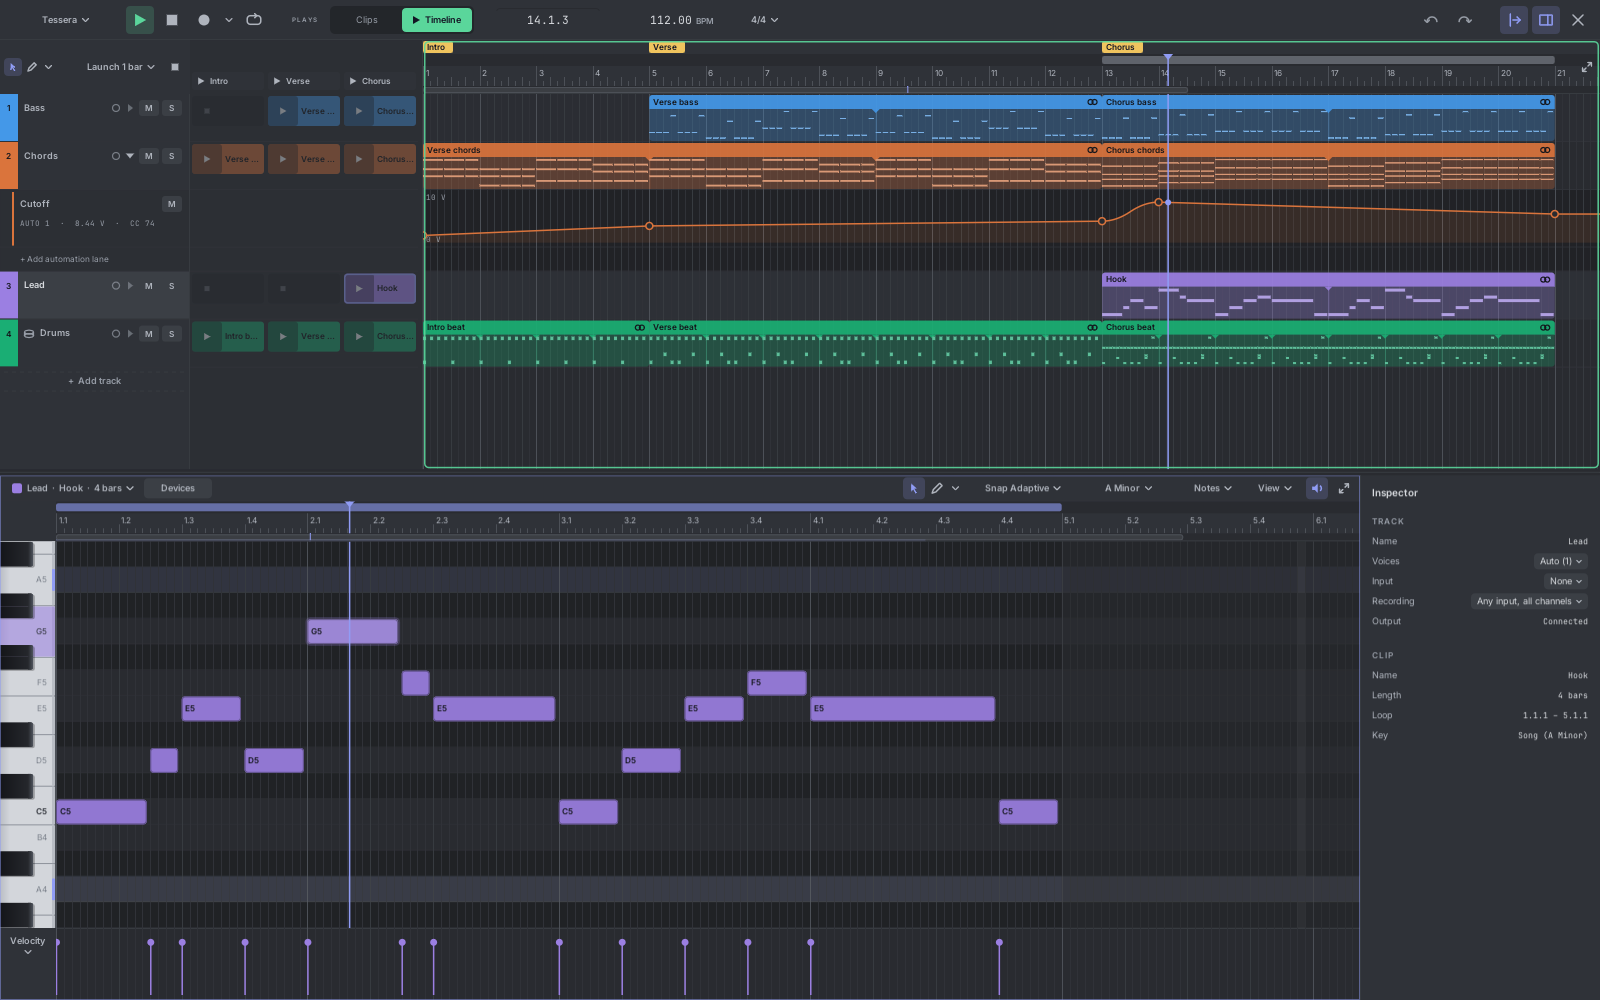
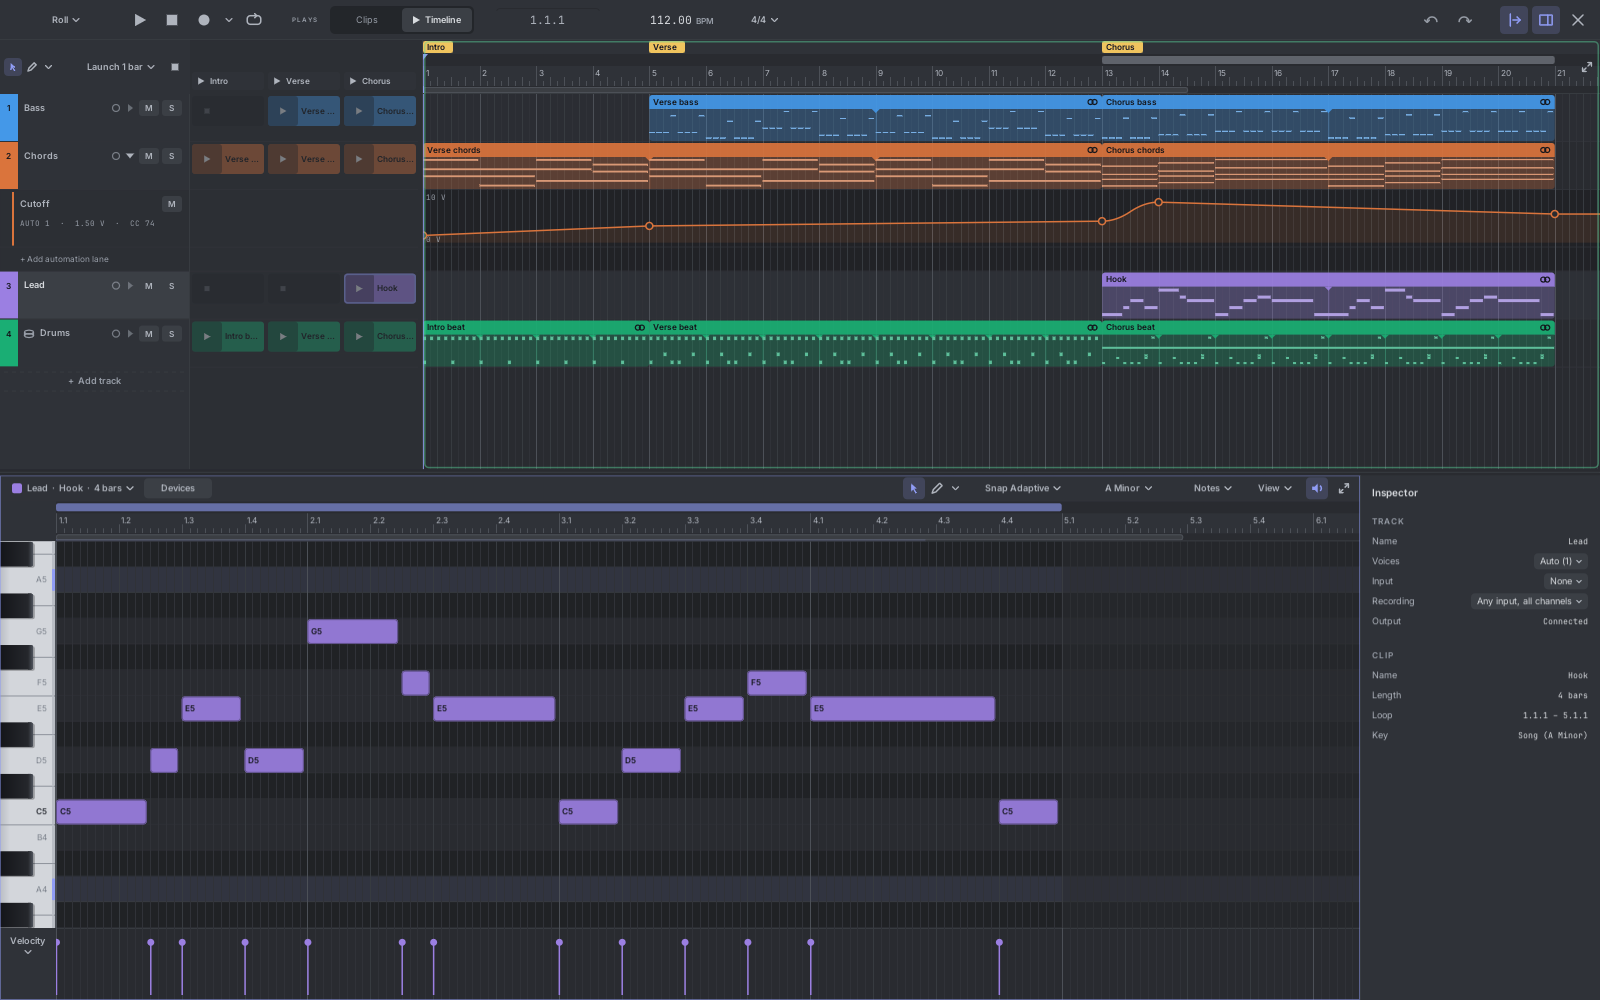
Rename the main module to Roll

Changed region(s): [[0.25, 0.0, 0.3125, 0.031], [0.0, 0.589, 0.0312, 0.651], [0.0625, 0.0, 0.0938, 0.031]]

diff --git a/docs/manual/tools/demo_patch.py b/docs/manual/tools/demo_patch.py
@@ -3,7 +3,7 @@
 
 Run it with an output folder: `demo_patch.py build/manual-rack`. It writes demo.vcv (a small song with its output
 modules), panel.vcv (the same song in an 80 HP panel editor), modules.vcv (the modules zoomed in), first.vcv
-(Tessera, a Track Out and a simple voice from Fundamental, to patch by hand), fresh.vcv (a new Tessera alone) and
+(Roll, a Track Out and a simple voice from Fundamental, to patch by hand), fresh.vcv (a new Roll alone) and
 polymeter.vcv (the demo with the Drums track open and its closed hat on a 3-step loop of its own) and hitvalues.vcv
 (the Drums track open on its Pitch lane: the snares tuned up step by step, the second a shaped curve, the hats with
 timbre).
@@ -142,7 +142,7 @@ def make_song():
 
 
 def tessera_module(song, selected_clip, panel_hp, plays_timeline, selected_track="Lead", note_lane=None):
-    """The Tessera module with the song; params are play, reset, loop, tap, BPM, scene buttons, Plays, rec, fill."""
+    """The Roll module with the song; params are play, reset, loop, tap, BPM, scene buttons, Plays, rec, fill."""
     params = [0.0] * 12
     params[4] = 112.0
     params[9] = 1.0 if plays_timeline else 0.0
@@ -150,14 +150,14 @@ def tessera_module(song, selected_clip, panel_hp, plays_timeline, selected_track
           "overlay": {"openAutomation": [TRACK_IDS["Chords"]]}}
     if note_lane:
         ui["overlay"]["noteLane"] = note_lane
-    return {"id": TESSERA_ID, "plugin": "Tessera", "model": "Tessera", "version": "2.0.0",
+    return {"id": TESSERA_ID, "plugin": "Tessera", "model": "Roll", "version": "2.0.0",
             "params": [{"value": v, "id": i} for i, v in enumerate(params)], "pos": [0, 0],
-            "data": {"schema": 6, "name": "Tessera", "savedId": TESSERA_ID, "launcher": [], "song": song, "ui": ui}}
+            "data": {"schema": 6, "name": "Roll", "savedId": TESSERA_ID, "launcher": [], "song": song, "ui": ui}}
 
 
 def output_module(mid, model, track, x):
     """A Track Out, Drum Out or Auto Out bound to `track` of the demo Tessera."""
-    data = {"source": TESSERA_ID, "sourceName": "Tessera", "track": TRACK_IDS[track],
+    data = {"source": TESSERA_ID, "sourceName": "Roll", "track": TRACK_IDS[track],
             "followSelected": False}
     return {"id": mid, "plugin": "Tessera", "model": model, "version": "2.0.0", "params": [], "pos": [x, 0],
             "data": data}
@@ -229,7 +229,7 @@ def main():
     values, beat = hit_values_song()
     (out / "hitvalues.vcv").write_text(json.dumps(patch([tessera_module(values, beat, 24, False, "Drums", "pitch")] +
                                                          outputs(24))))
-    (out / "fresh.vcv").write_text(json.dumps(patch([{"id": TESSERA_ID, "plugin": "Tessera", "model": "Tessera",
+    (out / "fresh.vcv").write_text(json.dumps(patch([{"id": TESSERA_ID, "plugin": "Tessera", "model": "Roll",
                                                       "version": "2.0.0", "params": [], "pos": [0, 0]}])))
 
 

diff --git a/src/ui/TesseraWidget.cpp b/src/ui/TesseraWidget.cpp
@@ -143,7 +143,7 @@ struct TesseraWidget : rack::app::ModuleWidget {
     explicit TesseraWidget(TesseraModule* module) {
         using M = TesseraModule;
         setModule(module);
-        PanelBuilder panel(this, kHp, "TESSERA");
+        PanelBuilder panel(this, kHp, "ROLL");
 
         auto* display = new TesseraDisplay(module);
         display->box = Rect(rack::mm2px(kDisplay.pos), rack::mm2px(kDisplay.size));
@@ -299,8 +299,8 @@ struct TesseraWidget : rack::app::ModuleWidget {
         menu->addChild(new rack::ui::MenuSeparator);
         menu->addChild(rack::createMenuLabel("Instance name"));
         menu->addChild(new MenuTextField(m->instanceName(), [m](const std::string& text) {
-            std::string name = text.empty() ? "Tessera" : text;
-            withModuleUndo(m, "rename Tessera", [&] { m->setInstanceName(Registry::get().uniqueSourceName(name)); });
+            std::string name = text.empty() ? "Roll" : text;
+            withModuleUndo(m, "rename Roll", [&] { m->setInstanceName(Registry::get().uniqueSourceName(name)); });
         }));
 
         std::vector<std::string> divisions;
@@ -409,4 +409,4 @@ struct TesseraWidget : rack::app::ModuleWidget {
 
 } // namespace tessera
 
-rack::plugin::Model* modelTessera = rack::createModel<tessera::TesseraModule, tessera::TesseraWidget>("Tessera");
+rack::plugin::Model* modelTessera = rack::createModel<tessera::TesseraModule, tessera::TesseraWidget>("Roll");

diff --git a/src/ui/editing/ExportMidi.cpp b/src/ui/editing/ExportMidi.cpp
@@ -201,7 +201,7 @@ void openSong(EditorContext& ctx) {
             return;
         }
         std::vector<TrackId> chosen = choices.selectedOnly ? selected : std::vector<TrackId>();
-        std::string title = mod->instanceName().empty() ? "Tessera" : mod->instanceName();
+        std::string title = mod->instanceName().empty() ? mod->model->name : mod->instanceName();
         std::string path = pickPath(title);
         if (path.empty())
             return;
@@ -326,7 +326,7 @@ void openDawProject(EditorContext& ctx) {
         saved.includeMuted = options.includeMuted;
         saved.noteChannels = options.noteChannels;
         saved.laneCc = options.laneCc;
-        std::string title = mod->instanceName().empty() ? "Tessera" : mod->instanceName();
+        std::string title = mod->instanceName().empty() ? mod->model->name : mod->instanceName();
         std::string path = pickPath(title, "DAWproject:dawproject", ".dawproject");
         if (path.empty())
             return;

diff --git a/src/module/TesseraModule.cpp b/src/module/TesseraModule.cpp
@@ -994,7 +994,7 @@ void TesseraModule::onAdd(const AddEvent& e) {
     // A duplicated module arrives with its original's name; give it its own so name lookups stay unambiguous.
     TesseraModule* sameName = registry.findSourceByName(name);
     if (name.empty() || (sameName && sameName != this))
-        name = registry.uniqueSourceName(name.empty() ? "Tessera" : name);
+        name = registry.uniqueSourceName(name.empty() ? "Roll" : name);
     registry.addSource(this);
     registry.touch(this);
     // A different saved ID means this is a pasted or duplicated copy. Output modules pasted along with it

diff --git a/src/ui/views/TransportBar.cpp b/src/ui/views/TransportBar.cpp
@@ -217,7 +217,7 @@ TransportBar::TransportBar(EditorContext& ctx, std::function<void()> onClose) : 
     EditorContext* c = &ctx;
 
     // The instance menu: file actions and the colour scheme.
-    auto instance = options(Icon::None, "Tessera",
+    auto instance = options(Icon::None, "Roll",
                             "Open and save projects, export MIDI and DAWproject files, "
                             "choose the colour scheme",
                             [c] {

diff --git a/src/ui/OutputMenus.cpp b/src/ui/OutputMenus.cpp
@@ -44,7 +44,7 @@ class TrackMenuItem : public rack::ui::MenuItem {
 void appendSourceMenu(rack::ui::Menu* menu, OutputModuleBase* m, const std::string& what) {
     std::vector<TesseraModule*> sources = Registry::get().sources();
     if (sources.empty()) {
-        menu->addChild(rack::createMenuLabel("No Tessera in this patch"));
+        menu->addChild(rack::createMenuLabel("No Roll in this patch"));
         return;
     }
     for (TesseraModule* src : sources) {

diff --git a/src/ui/editing/ProjectFile.cpp b/src/ui/editing/ProjectFile.cpp
@@ -30,7 +30,7 @@ std::string pick(osdialog_file_action action, const std::string& suggested) {
 }
 
 std::string defaultName(TesseraModule* m) {
-    std::string name = m->instanceName().empty() ? "Tessera" : m->instanceName();
+    std::string name = m->instanceName().empty() ? m->model->name : m->instanceName();
     for (char& ch : name)
         if (!std::isalnum((unsigned char)ch) && ch != ' ' && ch != '-' && ch != '_')
             ch = '_';

diff --git a/src/ui/TesseraDisplay.cpp b/src/ui/TesseraDisplay.cpp
@@ -265,7 +265,7 @@ void TesseraDisplay::drawHeader(NVGcontext* vg, Rect r) {
         }
     }
     draw::TextStyle title{fonts::uiStrong(), metrics::kTextUi, c.text0, NVG_ALIGN_LEFT | NVG_ALIGN_MIDDLE};
-    std::string name = module ? module->instanceName() : "Tessera";
+    std::string name = module ? module->instanceName() : "Roll";
     draw::text(vg, title, r.pos.x, cy, draw::ellipsize(vg, title, name, right - r.pos.x - 4));
 }
 

diff --git a/src/ui/TrackOutDisplay.cpp b/src/ui/TrackOutDisplay.cpp
@@ -21,7 +21,7 @@ constexpr float kNumberSize = 28;
 void TrackOutDisplay::gather() {
     if (!module) {
         status = BindingStatus::Bound;
-        sourceName = "Tessera";
+        sourceName = "Roll";
         trackName = "Track 1";
         trackNumber = 1;
         trackColor = trackColorForIndex(0);

diff --git a/docs/manual/02-modules.md b/docs/manual/02-modules.md
@@ -2,20 +2,20 @@
 
 This chapter explains every knob, button, jack and menu on the four modules.
 
-![Tessera, three Track Outs, a Drum Out and an Auto Out](images/tessera-panel.png)
+![Roll, three Track Outs, a Drum Out and an Auto Out](images/tessera-panel.png)
 
-## Tessera
+## Roll
 
-Tessera is the sequencer. It holds the song and plays it. You can use the panel alone for playing and launching
+Roll is the sequencer. It holds the song and plays it. You can use the panel alone for playing and launching
 scenes, but you write the music in the editor.
 
-![The Tessera panel with numbered parts](images/tessera-panel-numbered.png)
+![The Roll panel with numbered parts](images/tessera-panel-numbered.png)
 
 ### 1. The display
 
-The display shows what Tessera is doing:
+The display shows what Roll is doing:
 
-- **Top line:** the instance name (for example "Tessera" or "Drums B"), the selected scene ("SCENE 1 INTRO") and
+- **Top line:** the instance name (for example "Roll" or "Drums B"), the selected scene ("SCENE 1 INTRO") and
   what plays (**CLIPS** or **TIMELINE**).
 - **Middle:** a small picture of the song (one coloured line per track) and the notes of the selected clip.
 - **Bottom line:** the song position (bar.beat.sixteenth), the selected track and clip, and the tempo. With an
@@ -105,19 +105,19 @@ exactly with the notes on the output modules.
 
 ### The module menu
 
-Right-click the Tessera panel for these settings.
+Right-click the Roll panel for these settings.
 
-![The Tessera module menu](images/tessera-menu.png)
+![The Roll module menu](images/tessera-menu.png)
 
 | Item | What it does |
 |---|---|
 | **Open editor** | Same as the EDITOR button. |
 | **File** | New song, open and save project files, import MIDI files, export MIDI and DAWproject. See [Files](14-files.md). |
-| **MIDI input (for recording)** | The MIDI device and channel Tessera listens to. |
+| **MIDI input (for recording)** | The MIDI device and channel Roll listens to. |
 | **Panel editor** | Widens the panel to show a small editor in the rack: Off, 48, 80 or 120 HP. See [The editor](03-editor.md#the-editor-inside-the-panel). |
 | **Colour scheme** | The look of the editor and panels. See [The editor](03-editor.md#colour-schemes). |
 | **Editor size** | The size of the full editor: Auto (follows Rack's zoom) or 75% to 200%. |
-| **Instance name** | The name the output modules show. Give each Tessera its own name when you use more than one. |
+| **Instance name** | The name the output modules show. Give each Roll its own name when you use more than one. |
 | **CLOCK output** | The rate of the CLOCK output. |
 | **CLOCK input** | The PPQN of the CLOCK input. |
 | **Tracks** | Mute and solo each track without opening the editor. |
@@ -141,13 +141,13 @@ follows the track's **Voices** setting (by default, as many as the track ever pl
 | **PRESS** | Pressure curve of each note, 0 to 10 V. |
 | **AUTO** | The track's automation lanes, one channel per AUTO lane, already in volts. |
 
-**The screen** shows the Tessera's name, the track number in the track's colour, and the track name. It shows
-"No source" when no Tessera is found, and "Track missing" when the track was deleted. A Track Out never jumps to
+**The screen** shows the Roll's name, the track number in the track's colour, and the track name. It shows
+"No source" when no Roll is found, and "Track missing" when the track was deleted. A Track Out never jumps to
 another track by itself: undo the delete, or pick a track, and it plays again.
 
 **The arrow buttons** step through the instrument tracks. Each step can be undone.
 
-**Right-click** for the **Source** (which Tessera, by instance name) and **Track** menus.
+**Right-click** for the **Source** (which Roll, by instance name) and **Track** menus.
 
 ![The Track Out menu: Source and Track](images/track-out-menu.png)
 
@@ -195,17 +195,17 @@ lane's name and a bar with its value right now. It works with instrument and dru
 Use it when you want each curve on its own cable without a poly splitter. The poly **AUTO** jack on Track Out and
 Drum Out sends the same values.
 
-## How output modules find Tessera
+## How output modules find Roll
 
-You never connect a cable from Tessera to an output module. Instead:
+You never connect a cable from Roll to an output module. Instead:
 
-- A new output module follows the Tessera you clicked last, on its first track of the right kind that has no output
-  yet. With one Tessera in the patch, you never have to pick it.
+- A new output module follows the Roll you clicked last, on its first track of the right kind that has no output
+  yet. With one Roll in the patch, you never have to pick it.
 - The binding is saved in the patch.
-- When you copy and paste a Tessera together with its output modules, the pasted outputs follow the new copy. An
+- When you copy and paste a Roll together with its output modules, the pasted outputs follow the new copy. An
   output module pasted alone keeps following the original.
-- You can have several Tesseras in one patch. Give each a different **Instance name** so you can tell them apart in
+- You can have several Rolls in one patch. Give each a different **Instance name** so you can tell them apart in
   the **Source** menu.
-- All outputs of all tracks run exactly one sample behind Tessera, so every track stays in time with the others, in
+- All outputs of all tracks run exactly one sample behind Roll, so every track stays in time with the others, in
   any order and on any number of threads.
-- When Tessera is bypassed or removed, every gate goes low. No note is left hanging.
+- When Roll is bypassed or removed, every gate goes low. No note is left hanging.

diff --git a/docs/manual/14-files.md b/docs/manual/14-files.md
@@ -2,20 +2,20 @@
 
 ## Saving with the patch
 
-Tessera saves everything inside your Rack patch: the song, the transport settings, the editor layout and the output
+Roll saves everything inside your Rack patch: the song, the transport settings, the editor layout and the output
 modules' tracks. Save the patch as usual. Rack's module presets (right-click → **Preset**) also save and load the
 whole song.
 
 ## The File menu
 
-Click **Tessera ▾** at the top left of the editor. The module's right-click menu has the same items under **File**,
+Click **Roll ▾** at the top left of the editor. The module's right-click menu has the same items under **File**,
 so you can use them without opening the editor.
 
-![The Tessera menu: files and colour schemes](images/file-menu.png)
+![The Roll menu: files and colour schemes](images/file-menu.png)
 
 | Item | What it does |
 |---|---|
-| **New song** | Starts again: an empty song, the default tempo and loop, Plays set to Clips. One undo step brings the old song back. Your tools, snap and layout stay. If the song has anything in it, Tessera asks first: click **OK** to replace it. |
+| **New song** | Starts again: an empty song, the default tempo and loop, Plays set to Clips. One undo step brings the old song back. Your tools, snap and layout stay. If the song has anything in it, Roll asks first: click **OK** to replace it. |
 | **Open project…** | Opens a `.tessera` project file in place of the current song. It asks first in the same way. |
 | **Save project** | Saves to the project file you opened or saved last (its name shows in the menu). |
 | **Save project as…** | Saves a new `.tessera` file. |
@@ -26,7 +26,7 @@ so you can use them without opening the editor.
 
 ## Project files (.tessera)
 
-A project file holds one Tessera's song on its own, outside the patch: tracks, clips, scenes, devices, automation,
+A project file holds one Roll's song on its own, outside the patch: tracks, clips, scenes, devices, automation,
 tempo, loop, Plays, the instance name and the editor layout. Use it to keep songs, share them, or move a song to
 another patch.
 
@@ -43,7 +43,7 @@ an empty slot and choose **Load a Tessera clip file…** (or **Replace with Tess
 
 Export your music as a Standard MIDI File, to open it in any music program.
 
-- **The song** (or the tracks selected in the headers): **Tessera ▾ → Export MIDI…** or **Ctrl+Shift+E**.
+- **The song** (or the tracks selected in the headers): **Roll ▾ → Export MIDI…** or **Ctrl+Shift+E**.
 - **One clip, or the selected clips**: right-click a clip in the clips panel or on the timeline and choose **Export as
   MIDI…**. You choose one file per clip, or one file with a track per clip.
 
@@ -67,16 +67,16 @@ Click **Export…**, choose where to save, and a message tells you what was writ
 patch.
 
 **What is in the file:** a MIDI file of type 1 at 960 ticks per beat. The first track holds the song name, tempo,
-time signature, markers and the loop (as "Loop start" and "Loop end" cue points). Then one track per Tessera track, in
+time signature, markers and the loop (as "Loop start" and "Loop end" cue points). Then one track per Roll track, in
 order, named after it. Clips are written as they play on the timeline: with their loops, stretch, transpose and
 velocity.
 
 ## Exporting DAWproject
 
-DAWproject is an open file format that several music programs can open. **Tessera ▾ → Export DAWproject…**
+DAWproject is an open file format that several music programs can open. **Roll ▾ → Export DAWproject…**
 writes:
 
-- one track per Tessera track, with its name and colour;
+- one track per Roll track, with its name and colour;
 - the timeline clips where they are, with their notes (as MIDI export plays them, using the same Timing, Note
   operators and Devices choices);
 - the clips panel's clips as scenes (looping);
@@ -94,7 +94,7 @@ There are three ways in. Each is one undo step.
 |---|---|
 | Right-click an **empty slot** → **Import MIDI file…** | One clip in that slot. |
 | Right-click **empty timeline space** → **Import MIDI file here…** | One clip placed where you clicked. |
-| **Tessera ▾ → Import MIDI file as tracks…** | A new track for each part, with its clip on the timeline at bar 1 and in its first slot. The file's time signature and tempo are used too. |
+| **Roll ▾ → Import MIDI file as tracks…** | A new track for each part, with its clip on the timeline at bar 1 and in its first slot. The file's time signature and tempo are used too. |
 
 - Each MIDI track's channels are its parts. A file with several parts asks which one to import, or all of them as one
   clip. An MPE part (each note on its own channel) is one part.

diff --git a/docs/manual/01-getting-started.md b/docs/manual/01-getting-started.md
@@ -9,24 +9,23 @@ your patch.
 
 | Module | Width | What it does |
 |---|---|---|
-| **Tessera** | 24 HP (or wider) | The sequencer. It holds the song, the transport (play, stop, tempo) and the editor. |
+| **Roll** | 24 HP (or wider) | The sequencer. It holds the song, the transport (play, stop, tempo) and the editor. |
 | **Track Out** | 6 HP | The outputs of one instrument track: pitch, gate, velocity and more. |
 | **Drum Out** | 20 HP | The outputs of one drum track: a strip of trigger, velocity, pitch, timbre and pressure jacks for each drum sound. |
 | **Auto Out** | 8 HP | The automation curves of one track, on eight separate jacks. |
 
-The output modules don't need to sit next to Tessera. Put each one next to the modules it plays, anywhere in the
-rack. Each output module finds its Tessera by itself.
+The output modules don't need to sit next to Roll. Put each one next to the modules it plays, anywhere in the
+rack. Each output module finds its Roll by itself.
 
-## Step 1: add Tessera
+## Step 1: add Roll
 
-Right-click an empty spot in the rack to open Rack's module browser. Type **Tessera**. You will see the four
-modules. Click **Tessera** to add it.
+Right-click an empty spot in the rack to open Rack's module browser. Type **Roll** and click **Roll** to add it.
 
 ![Rack's module browser showing the four Tessera modules](images/module-browser.png)
 
 ## Step 2: add a Track Out
 
-Open the browser again and add a **Track Out**. It connects to your Tessera at once. Its screen shows the Tessera's
+Open the browser again and add a **Track Out**. It connects to your Roll at once. Its screen shows the Roll's
 name, the track number and the track name ("1 Track 1").
 
 A new Track Out always picks the first track that has no output yet. So if you add three Track Outs, they take
@@ -34,7 +33,7 @@ tracks 1, 2 and 3. You can change the track later with the arrow buttons.
 
 ## Step 3: patch a simple voice
 
-Tessera makes no sound by itself. It tells other modules which notes to play. Here is the smallest voice, built
+Roll makes no sound by itself. It tells other modules which notes to play. Here is the smallest voice, built
 from VCV's free **Fundamental** modules:
 
 1. Track Out **V/OCT** to the VCO's **V/OCT** input. This sets the pitch.
@@ -43,18 +42,18 @@ from VCV's free **Fundamental** modules:
 4. ADSR **ENV** to the VCA's level input (the jack above IN).
 5. VCA **OUT** to Rack's **Audio** module, so you can hear it.
 
-![Tessera, a Track Out and a simple VCO, ADSR and VCA voice, patched](images/first-patch.png)
+![Roll, a Track Out and a simple VCO, ADSR and VCA voice, patched](images/first-patch.png)
 
 > **Tip:** Track Out sends one voice per poly channel. A chord of three notes uses three channels. Fundamental's VCO,
 > ADSR and VCA are polyphonic, so chords just work.
 
 ## Step 4: open the editor
 
-Click **EDITOR** on the Tessera panel. The editor fills the Rack window.
+Click **EDITOR** on the Roll panel. The editor fills the Rack window.
 
-![The editor of a new Tessera: four empty tracks](images/fresh-editor.png)
+![The editor of a new Roll: four empty tracks](images/fresh-editor.png)
 
-A new Tessera has four tracks: three instrument tracks and one drum track. It has no clips yet. The top half shows
+A new Roll has four tracks: three instrument tracks and one drum track. It has no clips yet. The top half shows
 the song (tracks, clips and the timeline). The bottom half shows the notes of the selected track.
 
 Press **Esc** or click **×** (top right) to close the editor. Your song stays as it is.
@@ -80,7 +79,7 @@ it through your voice. Press **Space** again to stop.
 
 ## Step 7: save
 
-Tessera saves everything inside your Rack patch. Save the patch as usual (**Ctrl+S** in Rack). When you open the
+Roll saves everything inside your Rack patch. Save the patch as usual (**Ctrl+S** in Rack). When you open the
 patch again, the song, the editor layout and the output modules' tracks come back.
 
 You can also save the song on its own as a project file. See [Files, export and import](14-files.md).
